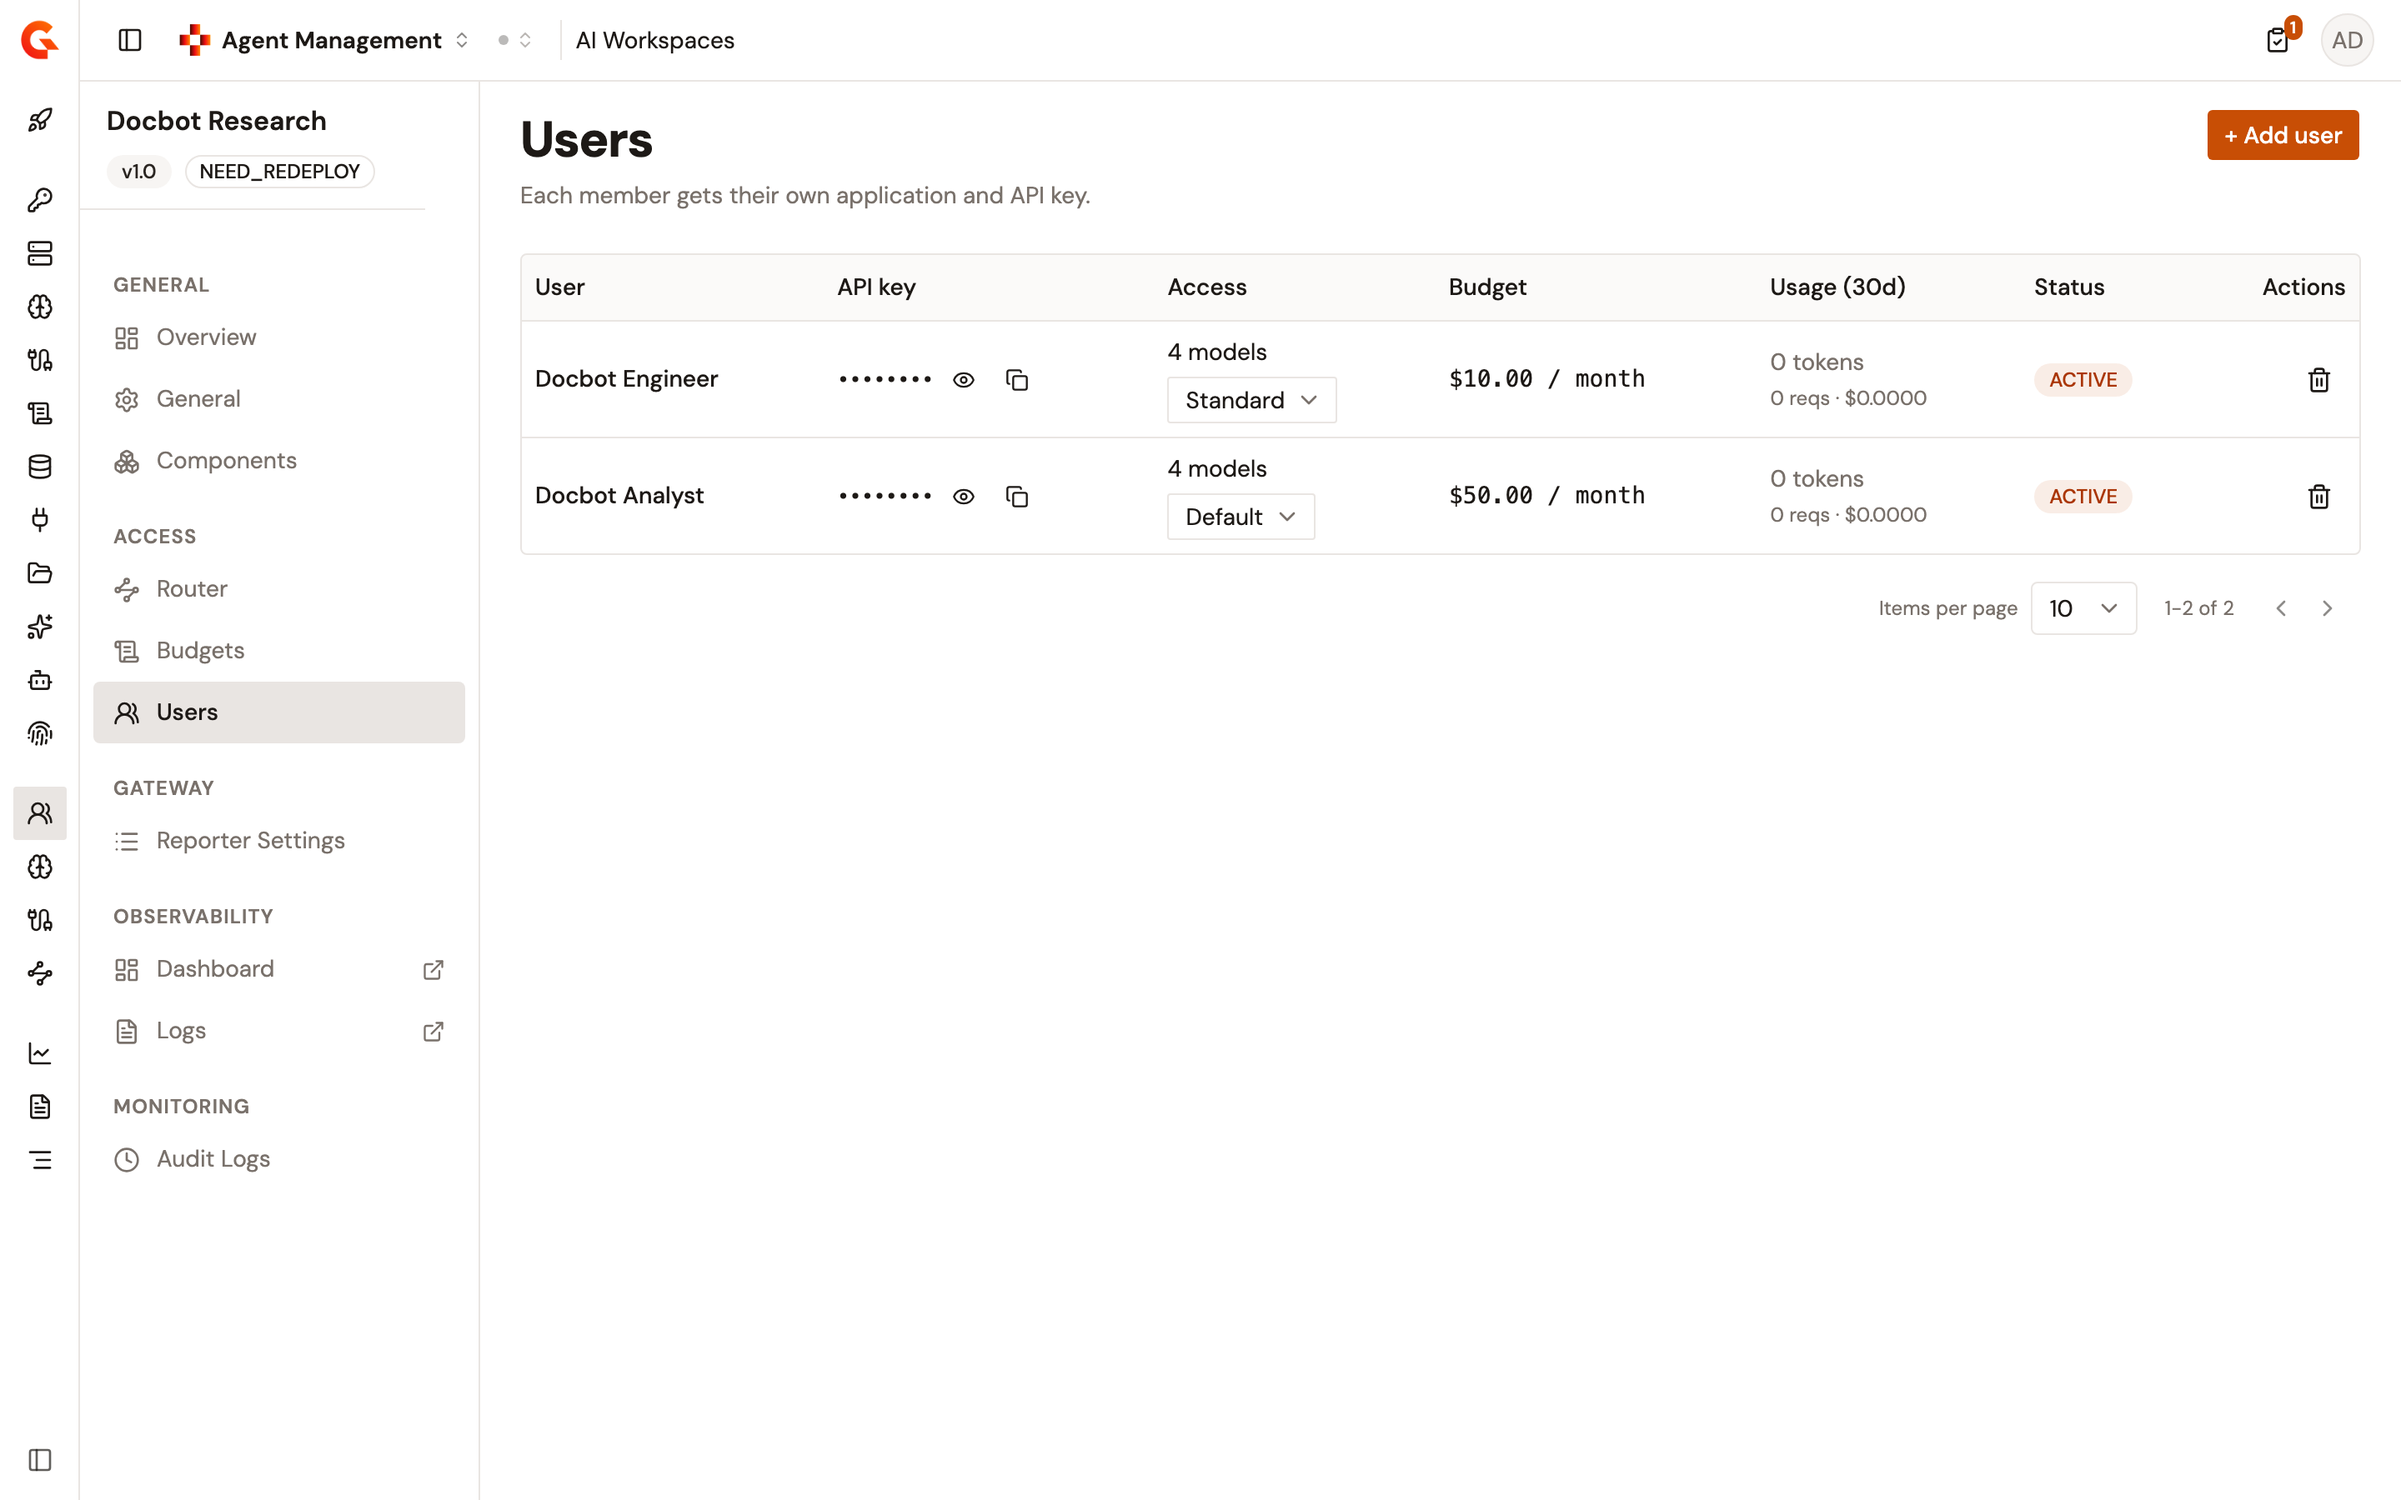
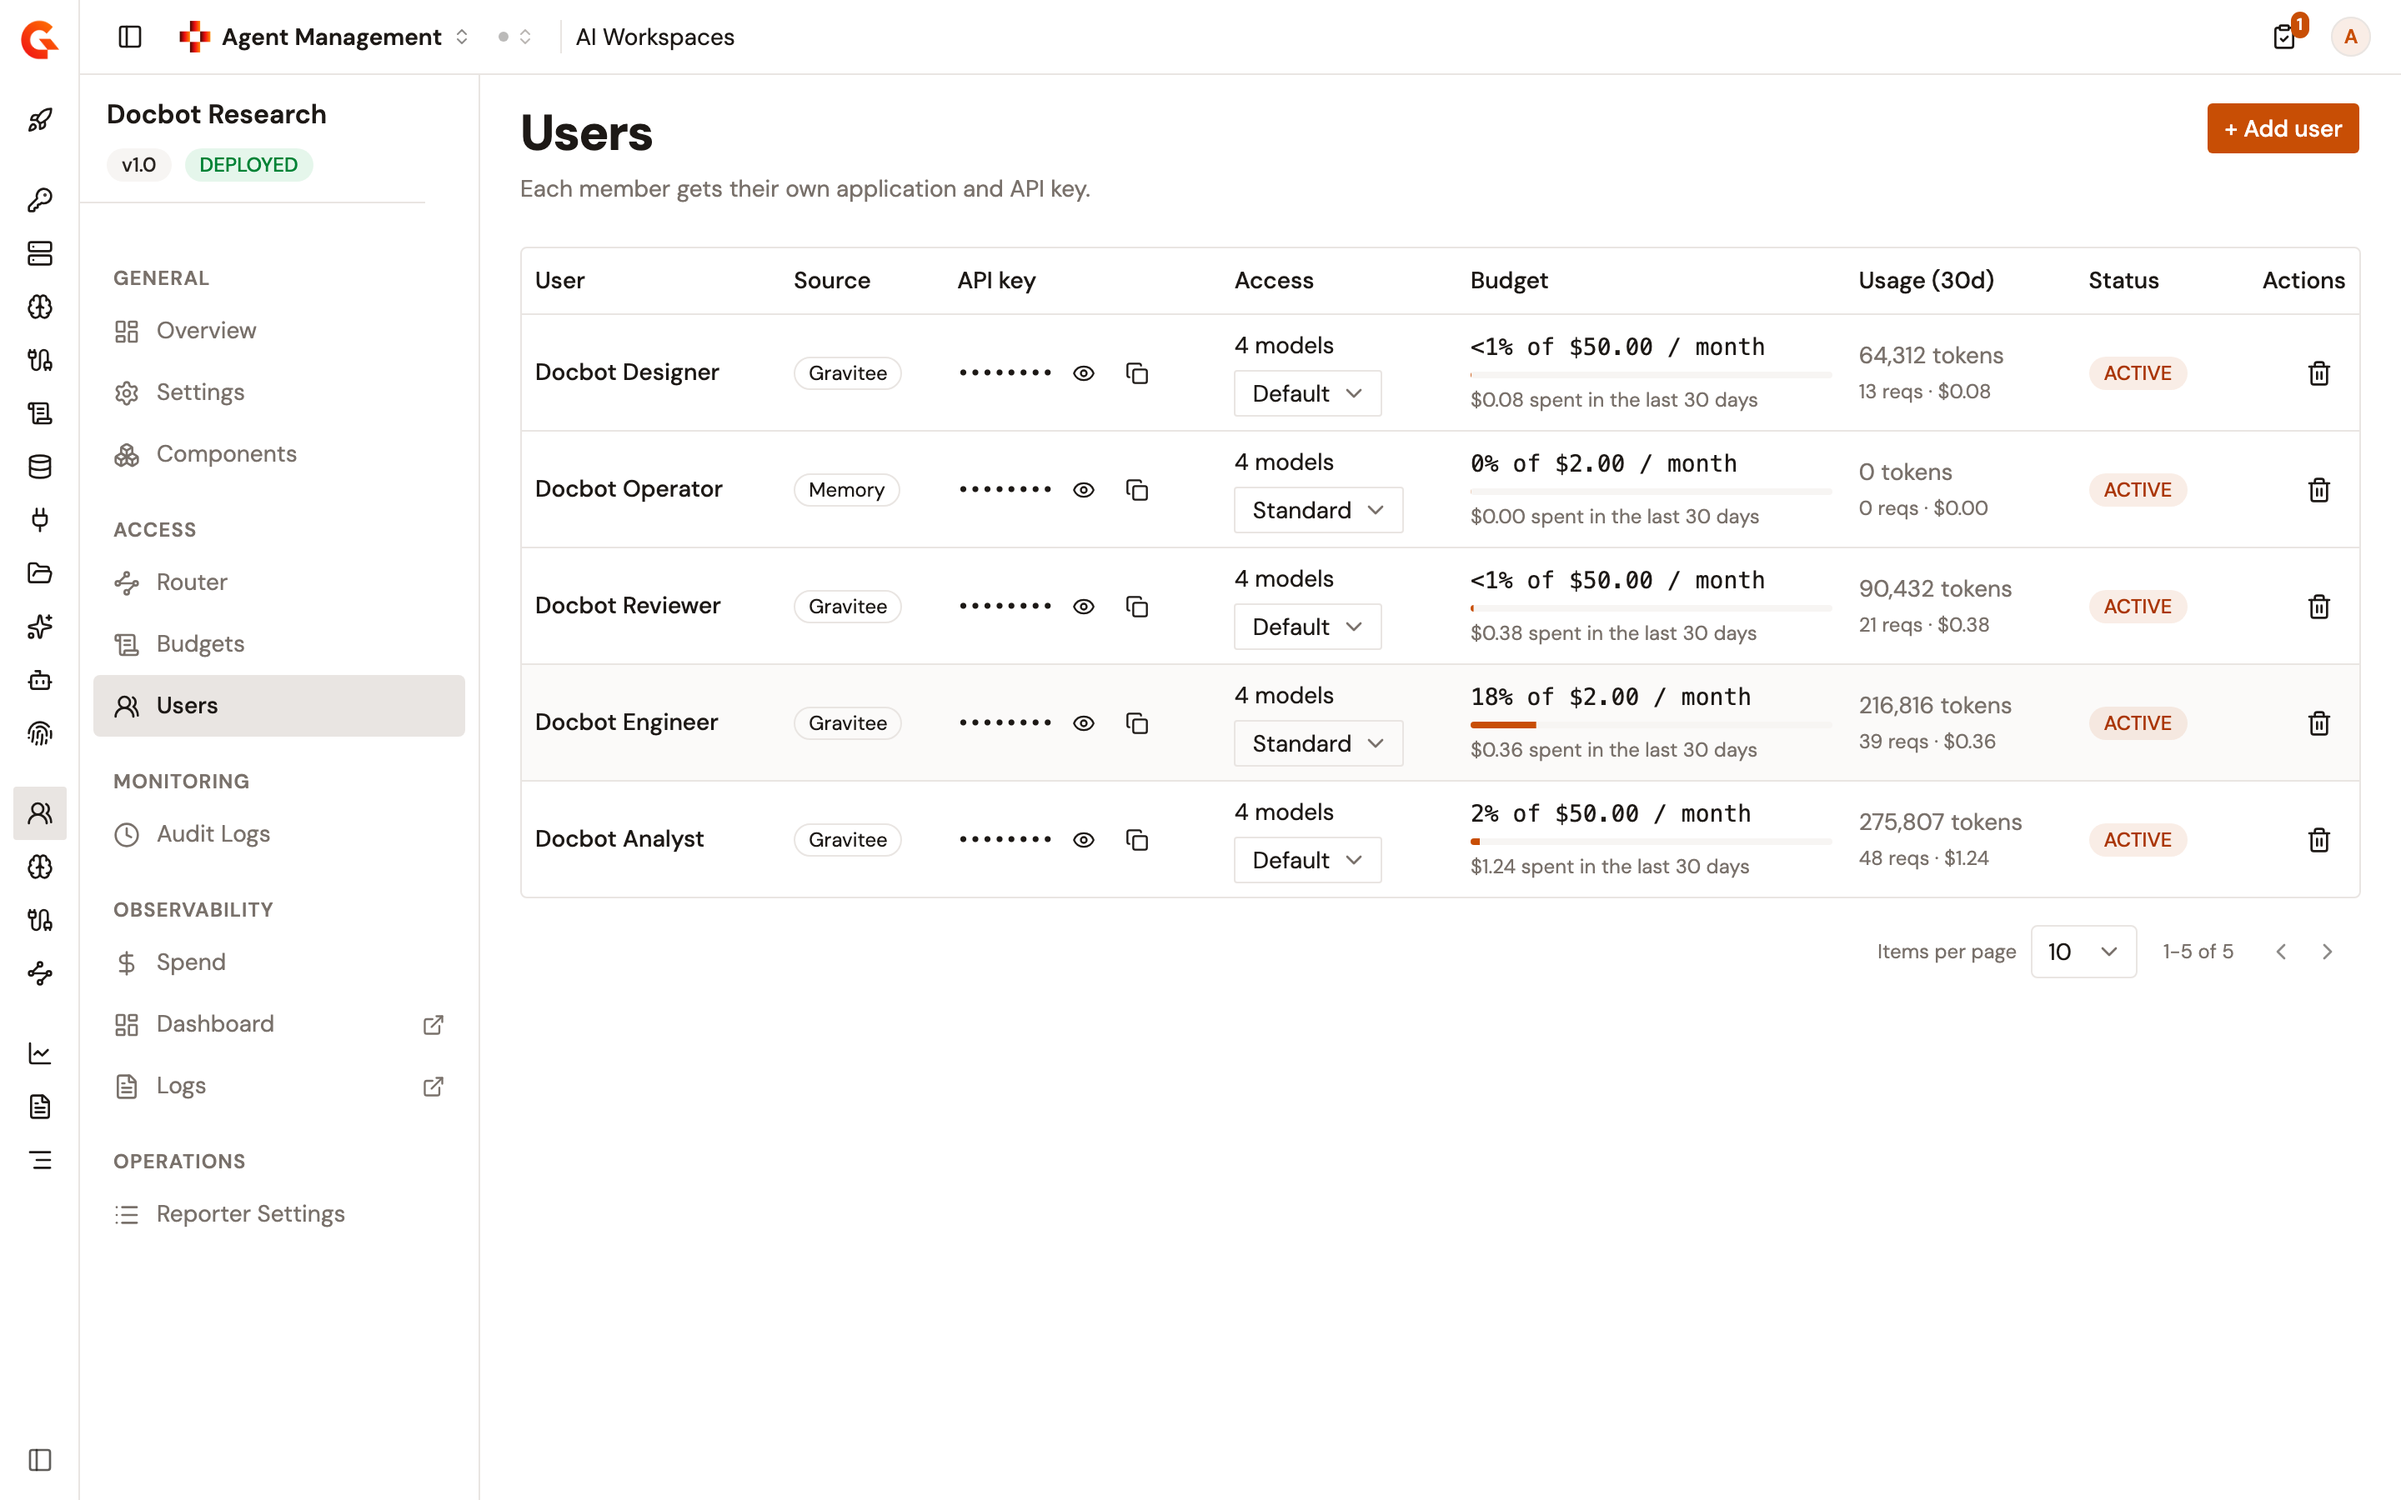
docs(gamma): add AI Workspace spend and dashboard screenshots (AIAM-295)
Capture the Spend page, the per-user panel, the Spend Users table, the
AI Workspace Overview dashboard, and its Key Metrics row from a local
4.13 stack loading aim 5.0.0-alpha.7 with synthetic data, and recapture
the Users list for the Source column and budget use.

diff --git a/docs/gamma/4.13/agent-management/build/track-ai-workspace-spend.md b/docs/gamma/4.13/agent-management/build/track-ai-workspace-spend.md
@@ -19,7 +19,7 @@ To open the **Spend** page of a workspace, complete the following steps:
 3. Select the workspace.
 4. Under **Observability**, click **Spend**.
 
-    <!-- TODO: Screenshot of the Spend page of a workspace with traffic: the Spend, Tokens, Requests, and Users figures, the Users table, and the Budgets table -->
+    <figure><img src="../.gitbook/assets/gamma-aim-ai-workspace-spend.png" alt="The Spend page of a workspace with the Spend, Tokens, Requests, and Users figures, the Users table ranked by spend with one user at zero, and the Budgets table"><figcaption><p>The Spend page of a workspace</p></figcaption></figure>
 
 The page opens on the last 30 days. Change the range with the time range control in the page header, and every spend, token, and request figure follows it.
 
@@ -43,6 +43,8 @@ To see what each model cost one user, complete the following steps:
 1. In the **Users** table, click the user's name.
 
     A panel opens beside the page. It sets the user's spend, tokens, and requests against the workspace totals, and shows what each model cost them.
+
+    <figure><img src="../.gitbook/assets/gamma-aim-ai-workspace-spend-user-panel.png" alt="The panel for one user beside the Spend page, with their spend, tokens, and requests against the workspace totals, their budget, and a card per model"><figcaption><p>The panel for one user</p></figcaption></figure>
 
 2. Optional: To manage the user's access, click **Open Users page**.
 
@@ -82,6 +84,7 @@ To verify the **Spend** page is working as expected, follow these steps:
 1. Call the workspace entrypoint with a user's API key. See [Assign users to an AI workspace](assign-users-to-an-ai-workspace.md).
 2. Open the **Spend** page of the workspace.
 3. Confirm the **Requests** figure and the user's row in the **Users** table count the call.
-4. Click **Export CSV**, and confirm the `Users` table of the file carries the user's row.
 
-    <!-- TODO: Screenshot of the Spend page after a call, with the user's row in the Users table showing the request -->
+    <figure><img src="../.gitbook/assets/gamma-aim-ai-workspace-spend-users.png" alt="The Users table of the Spend page listing each user with their spend, tokens, and requests"><figcaption><p>The Users table of the Spend page</p></figcaption></figure>
+
+4. Click **Export CSV**, and confirm the `Users` table of the file carries the user's row.

diff --git a/docs/gamma/4.13/agent-management/observe/monitor-your-ai-workspaces.md b/docs/gamma/4.13/agent-management/observe/monitor-your-ai-workspaces.md
@@ -17,7 +17,7 @@ To open the dashboard for one workspace, complete the following steps:
 3. Select the workspace.
 4. Under **Observability**, click **Dashboard**.
 
-    <!-- TODO: Screenshot of the AI Workspace Overview dashboard opened from a workspace, with the AI Workspace filter set to the workspace -->
+    <figure><img src="../.gitbook/assets/gamma-aim-ai-workspace-overview-dashboard.png" alt="The AI Workspace Overview dashboard filtered to one workspace over the last 7 days, with the Key Metrics row and the top models by requests and by cost"><figcaption><p>The dashboard opened from a workspace</p></figcaption></figure>
 
 The dashboard opens in a new tab, filtered to the workspace, on the last 7 days. The **Logs** item under **Observability** opens the logs in a new tab, filtered to the same workspace, on the last 5 minutes.
 
@@ -55,4 +55,4 @@ To verify the AI Workspace Overview dashboard is working as expected, follow the
 2. Open the workspace, and under **Observability**, click **Dashboard**.
 3. Confirm the **AI Workspace** filter is set to the workspace, and that **Requests** under **Key Metrics** counts the call.
 
-    <!-- TODO: Screenshot of the AI Workspace Overview dashboard after a call, with the Key Metrics row counting the request -->
+    <figure><img src="../.gitbook/assets/gamma-aim-ai-workspace-overview-key-metrics.png" alt="The Key Metrics row of the dashboard with requests, error rate, P95 response time, tokens, and cost"><figcaption><p>The Key Metrics row</p></figcaption></figure>

diff --git a/docs/gamma/4.13/agent-management/build/assign-users-to-an-ai-workspace.md b/docs/gamma/4.13/agent-management/build/assign-users-to-an-ai-workspace.md
@@ -96,7 +96,7 @@ The **Users** list holds one row per member, with the following columns:
     </tbody>
 </table>
 
-<figure><img src="../.gitbook/assets/gamma-aim-ai-workspace-users-list.png" alt="The Users list with two members, each showing a masked API key, the model count and budget selector, the budget amount and period, thirty-day usage, and an active status"><figcaption><p>The Users list of a workspace</p></figcaption></figure>
+<figure><img src="../.gitbook/assets/gamma-aim-ai-workspace-users-list.png" alt="The Users list with five members, each showing their identity source, a masked API key, the model count and budget selector, the share of their budget used with the amount spent in the last 30 days, thirty-day usage, and an active status"><figcaption><p>The Users list of a workspace</p></figcaption></figure>
 
 ### Read a member's budget use
 
